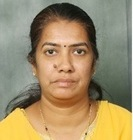
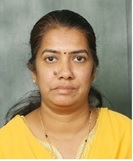
changed layout

diff --git a/index.html b/index.html
@@ -35,6 +35,22 @@
       width: 30%;
     }
 
+    .imgf {
+      float: left;
+      height: 170px;
+      object-fit: cover;
+      border-radius: 5px 5px 0 0;
+      width: 100%;
+    }
+
+    .imgs {
+      float: left;
+      height: 370px;
+      object-fit: cover;
+      border-radius: 5px 5px 0 0;
+      width: 100%;
+    }
+
     #banner {
       margin-top: 10px;
       height: 250px;
@@ -86,9 +102,15 @@
       justify-content: center;
     }
 
+    .row::after {
+      content: "";
+      clear: both;
+      display: table;
+    }
+
     .column {
-      margin: 10px;
-      width: 32%;
+      margin: 7px;
+      float: left;
     }
 
     .card {
@@ -103,6 +125,8 @@
 
     .container {
       padding: 2px 16px;
+
+      text-align: center;
     }
 
     .container1 {
@@ -112,7 +136,9 @@
 
     .name {
       float: left;
-      width: 24%;
+      width: 35%;
+      margin-left: 20px;
+      margin-right: 20px;
       padding: 5px;
     }
 
@@ -207,12 +233,11 @@
   <div class="content but"><button onclick="location.href='https://www.widsconference.org/'" type="button" style="margin-top: 0">About WiDS Global</button></div>
 
   <div class="headings">Speakers</div>
-
   <div class="content">
     <div class="row">
       <div class="column">
         <div class="card">
-          <img src="img/1520363154001.jpeg" alt="Ms. Srujana Kaddevarmuth" style="width:100%; border-radius: 5px">
+          <img src="img/1520363154001.jpeg" alt="Ms. Srujana Kaddevarmuth" class="imgs">
           <div class="container">
             <h4><b>Ms. Srujana Kaddevarmuth</b></h4>
             <p>Senior Director, Walmart Global Technology</p>
@@ -222,7 +247,7 @@
 
       <div class="column">
         <div class="card">
-          <img src="img/1605122404671.jpeg" alt="Ms. Usha Rengaraju" style="width:100%; border-radius: 5px">
+          <img src="img/1605122404671.jpeg" alt="Ms. Usha Rengaraju" class="imgs">
           <div class="container">
             <h4><b>Ms. Usha Rengaraju</b></h4>
             <p>Principal Data Scientist, MUST Research</p>
@@ -296,23 +321,23 @@
       <td class="tg-548t">Session</td>
     </tr>
     <tr>
-      <td class="tg-cx2f">09:30 am</td>
+      <td class="tg-cx2f">03:30 am</td>
       <td class="tg-cx2f">Opening Remarks</td>
     </tr>
     <tr>
-      <td class="tg-gyuj">09:45 am</td>
-      <td class="tg-gyuj"><span style="font-weight:400;font-style:normal">Keynote 1 : </span>Dr. Meena S.M</td>
+      <td class="tg-gyuj">03:45 am</td>
+      <td class="tg-gyuj"><span style="font-weight:400;font-style:normal">Keynote 2 : </span>Dr. Uma Mudengudi</td>
     </tr>
     <tr>
-      <td class="tg-gyuj">10:15 am</td>
-      <td class="tg-gyuj"><span style="font-weight:bold">Workshop 1</span><br><span style="font-weight:bold">Topic</span> : Datathon enabling Data Science for Social Good<br><span style="font-weight:bold">Speaker</span> : Ms. Srujana Kaddevarmuth</td>
+      <td class="tg-gyuj">04:15 am</td>
+      <td class="tg-gyuj"><span style="font-weight:bold">Workshop 2</span><br><span style="font-weight:bold">Topic</span> : WiDS 2022 Datathon Solution walkthrough<br><span style="font-weight:bold">Speaker</span> : Ms. Usha Rengaraju</td>
     </tr>
     <tr>
-      <td class="tg-nr7j">11:15 am</td>
+      <td class="tg-nr7j">05:15 am</td>
       <td class="tg-nr7j">QnA / Discussion</td>
     </tr>
     <tr>
-      <td class="tg-lsq3">11:30 am</td>
+      <td class="tg-lsq3">05:30 am</td>
       <td class="tg-lsq3">Closing Remarks</td>
     </tr>
     </tbody>
@@ -321,76 +346,83 @@
   </div>
   </div>
 
-  <div class="headings">Patron</div>
-
   <div class="content">
     <div class="row">
-      <div class="column" style="flex: 50%; max-width: 400px">
-        <div class="card">
-          <img src="img/vc.jpeg" alt="Dr. Ashok Shettar" style="width:100%; border-radius: 5px">
-          <div class="container">
-            <h4><b>Dr. Ashok Shettar</b></h4>
-            <p>Vice Chancellor, KLE Technological University</p>
-          </div>
-        </div>
-      </div>
-    </div>
-  </div>
-
-  <div class="headings">Advisory</div>
-
-  <div class="content">
-    <div class="row">
-      <div class="column" style="flex: 33%;">
-        <div class="card">
-          <img src="img/bld.jpeg" alt="Prof. B. L Desai" style="width:100%; border-radius: 5px">
-          <div class="container">
-            <h4><b>Prof. B. L Desai</b></h4>
-            <p>Executive Dean, KLE Technological University</p>
+      <div class="column" style="flex: 15%">
+        <div class="headings">Patron</div>
+        <div class="content">
+          <div class="row">
+            <div class="column" style="flex: 100%">
+              <div class="card">
+                <img src="img/vc.jpeg" alt="Dr. Ashok Shettar" class="imgf">
+                <div class="container">
+                  <h4><b>Dr. Ashok Shettar</b></h4>
+<!--                  <p>Vice Chancellor, KLE Technological University</p>-->
+                </div>
+              </div>
+            </div>
           </div>
         </div>
       </div>
 
-      <div class="column"  style="flex: 33%;">
-        <div class="card">
-          <img src="img/nca.jpg" alt="Prof. N. C Aaychit" style="width:100%; border-radius: 5px">
-          <div class="container">
-            <h4><b>Prof. N. C Aaychit</b></h4>
-            <p>Registrar, KLE Technological University</p>
+      <div class="column" style="flex: 45%">
+        <div class="headings">Advisory</div>
+        <div class="content">
+          <div class="row">
+            <div class="column" style="flex: 33%">
+              <div class="card">
+                <img src="img/bld.jpeg" alt="Prof. B. L Desai" class="imgf">
+                <div class="container">
+                  <h4><b>Prof. B. L Desai</b></h4>
+<!--                  <p>Executive Dean, KLE Technological University</p>-->
+                </div>
+              </div>
+            </div>
+
+            <div class="column" style="flex: 33%">
+              <div class="card">
+                <img src="img/nca.jpg" alt="Prof. N. C Aaychit" class="imgf">
+                <div class="container">
+                  <h4><b>Prof. N. C Aaychit</b></h4>
+<!--                  <p>Registrar, KLE Technological University</p>-->
+                </div>
+              </div>
+            </div>
+
+            <div class="column" style="flex: 33%">
+              <div class="card">
+                <img src="img/UM.jpg" alt="Prof. Uma Mudenagudi" class="imgf">
+                <div class="container">
+                  <h4><b>Prof. Uma M</b></h4>
+<!--                  <p>R&D Dean, KLE Technological University</p>-->
+                </div>
+              </div>
+            </div>
           </div>
         </div>
       </div>
 
-      <div class="column"  style="flex: 33%;">
-        <div class="card">
-          <img src="img/UM.jpg" alt="Prof. Uma Mudenagudi" style="width:100%; border-radius: 5px">
-          <div class="container">
-            <h4><b>Prof. Uma Mudenagudi</b></h4>
-            <p>R&D Dean, KLE Technological University</p>
-          </div>
-        </div>
-      </div>
-    </div>
-  </div>
+      <div class="column" style="flex: 30%">
+        <div class="headings">WiDS Ambassadors</div>
+        <div class="content">
+          <div class="row">
+            <div class="column" style="flex: 50%">
+              <div class="card">
+                <img src="img/msm.jpg" alt="Dr. Meena S.M" class="imgf">
+                <div class="container">
+                  <h4><b>Dr. Meena S.M</b></h4>
+                </div>
+              </div>
+            </div>
 
-  <div class="headings">WiDS Ambassadors</div>
-
-  <div class="content">
-    <div class="row">
-      <div class="column" style="flex: 50%; max-width: 400px">
-        <div class="card">
-          <img src="img/msm.jpg" alt="Dr. Meena S.M" style="width:100%; border-radius: 5px">
-          <div class="container">
-            <h4><b>Dr. Meena S.M</b></h4>
-          </div>
-        </div>
-      </div>
-
-      <div class="column"  style="flex: 50%; max-width: 400px">
-        <div class="card">
-          <img src="img/SC.jpg" alt="Dr. Sujatha C." style="width:100%; border-radius: 5px">
-          <div class="container">
-            <h4><b>Dr. Sujatha C.</b></h4>
+            <div class="column" style="flex: 50%">
+              <div class="card">
+                <img src="img/SC.jpg" alt="Dr. Sujatha C." class="imgf">
+                <div class="container">
+                  <h4><b>Dr. Sujatha C.</b></h4>
+                </div>
+              </div>
+            </div>
           </div>
         </div>
       </div>
@@ -400,7 +432,7 @@
   <div class="headings">Organizing Committee</div>
 
   <div class="content">
-    <div class="trow">
+    <div class="row">
       <div class="name">
         <div class="card">
           <div class="container1">
@@ -416,7 +448,9 @@
           </div>
         </div>
       </div>
+    </div>
 
+    <div class="row">
       <div class="name">
         <div class="card">
           <div class="container1">
@@ -432,7 +466,27 @@
           </div>
         </div>
       </div>
+    </div>
 
+    <div class="row">
+      <div class="name">
+        <div class="card">
+          <div class="container1">
+            <h4><b>Ms. Neha T</b></h4>
+          </div>
+        </div>
+      </div>
+
+      <div class="name">
+        <div class="card">
+          <div class="container1">
+            <h4><b>Ms. Priyadarshini Patil</b></h4>
+          </div>
+        </div>
+      </div>
+    </div>
+
+    <div class="row">
       <div class="name">
         <div class="card">
           <div class="container1">
@@ -445,22 +499,6 @@
         <div class="card">
           <div class="container1">
             <h4><b>Mr. Sunil G</b></h4>
-          </div>
-        </div>
-      </div>
-
-      <div class="name">
-        <div class="card">
-          <div class="container1">
-            <h4><b>Ms. Priyadarshini Patil</b></h4>
-          </div>
-        </div>
-      </div>
-
-      <div class="name">
-        <div class="card">
-          <div class="container1">
-            <h4><b>Ms. Neha T</b></h4>
           </div>
         </div>
       </div>
